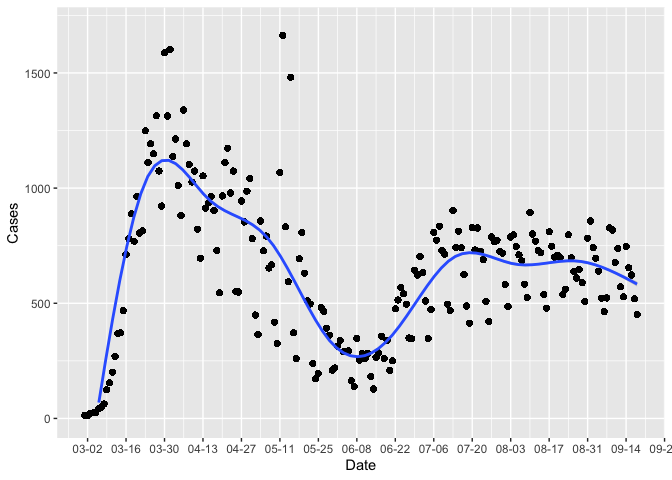
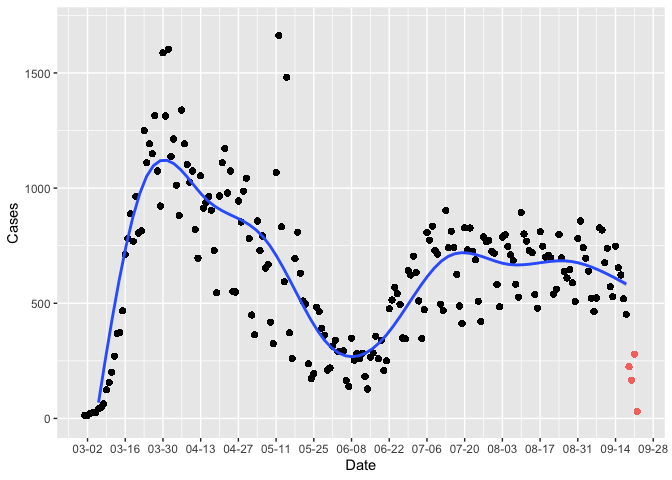
data split, recolor possibly innacurate data

diff --git a/MiCorona.md b/MiCorona.md
@@ -32,27 +32,36 @@ Manipulate Data:
 mi_cases_by_day = mi_data %>% 
   na.omit() %>%
   group_by(Date) %>%
-  mutate(Cases = sum(Cases)) %>%
-  filter(                         #most recent data is often inaccurate and revised
-    date(Date) != date(now()),
-    date(Date) != date(now()) - 1,
-    date(Date) != date(now()) - 2,
-    date(Date) != date(now()) - 3,
-    date(Date) != date(now()) - 4,
+  mutate(
+    Cases = sum(Cases),
+    Date = date(Date)
+  ) 
+
+mi_cases_by_day_exclusive <- mi_cases_by_day %>%
+  filter(                                  #most recent data is often inaccurate and revised
+    Date < date(now()) - 4,
   )
 
-mi_cases_by_day %>%
-  ggplot(mapping = aes(x = date(Date), y = Cases)) +
+mi_cases_by_day_last4 <- mi_cases_by_day %>%
+  filter(                         
+    Date >= date(now()) - 4,
+  )
+
+mi_cases_by_day_exclusive %>%
+  ggplot(mapping = aes(x = Date, y = Cases)) +
   ylim(c(0,1700)) +
   geom_point() + 
   geom_smooth() +
+  geom_point(
+    data = mi_cases_by_day_last4,
+    mapping = aes(x = Date, y = Cases, color = "red"),
+  ) +
   scale_x_date(date_labels = "%m-%d",
                date_breaks = "2 weeks") + 
-  labs(x = "Date")
+  labs(x = "Date") + 
+  theme(legend.position = "none")
 ```
 
-    ## `geom_smooth()` using method = 'gam' and formula 'y ~ s(x, bs = "cs")'
-
-    ## Warning: Removed 2 rows containing missing values (geom_smooth).
-
-![](MiCorona_files/figure-gfm/unnamed-chunk-2-1.png)<!-- -->
+![](MiCorona_files/figure-gfm/unnamed-chunk-2-1.png)<!-- --> Note that
+the last 4-5 days of data have been colored red on the graph, as they
+frequently change as more infomration becomes available.
